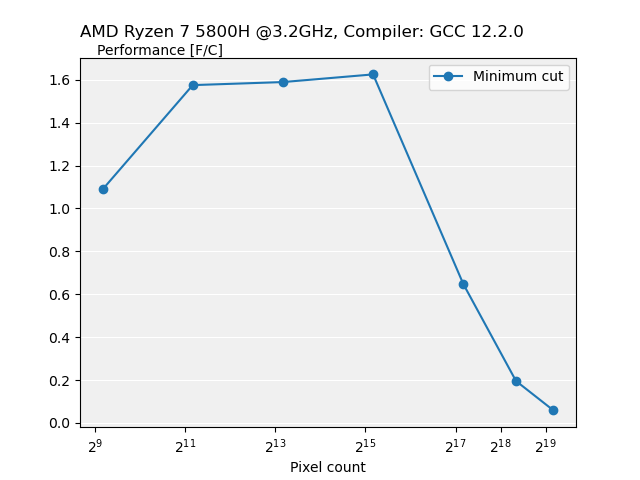
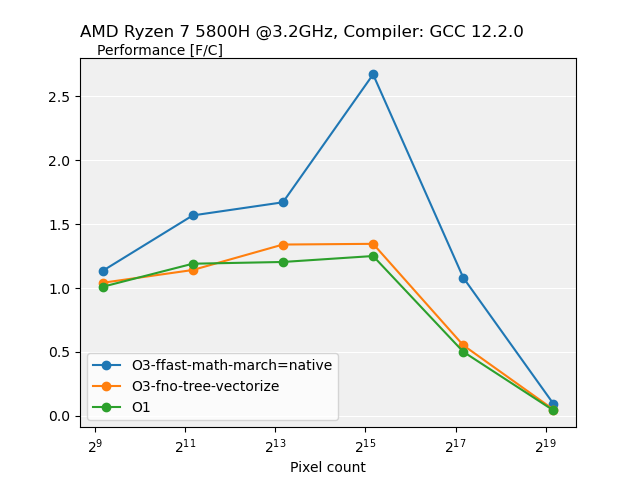
add compiler flags update plots for different compiler flags

diff --git a/src/benchmarking/performance_plot.py b/src/benchmarking/performance_plot.py
@@ -16,18 +16,20 @@ def performance_plot():
     plt.grid(axis = 'y', color = 'white')
     plt.title(cpu + ', ' + compiler, loc='left', pad=15)
 
-    data = []
-    file = open("./gallery/results.txt", "r")
-    for line in file:
-        x_value = int(line.split('n=')[1].split(',')[0])
-        y_value = float(line.split('performance=')[1].split(',')[0])
-        data.append((x_value, y_value))
+    for filename in ["timing_results_-O3-ffast-math-march=native.txt", "timing_results_-O3-fno-tree-vectorize.txt", "timing_results_-O1.txt"]:
+        data = []
+        file = open("./gallery/" + filename, "r")
+        for line in file:
+            x_value = int(line.split('n=')[1].split(',')[0])
+            y_value = float(line.split('performance=')[1].split(',')[0])
+            data.append((x_value, y_value))
 
-    data.sort(key=lambda x:x[0])
+        data.sort(key=lambda x:x[0])
 
-    plt.xscale('log', base=2)
-    plt.xticks([2 ** np.floor((np.log2(i[0]))) for i in data])
-    plt.plot(*zip(*data), '-o', label='Minimum cut')
+        plt.xscale('log', base=2)
+        plt.xticks([2 ** np.floor((np.log2(i[0]))) for i in data])
+        label = filename.split('_-')[1].split('.txt')[0]
+        plt.plot(*zip(*data), '-o', label=label)
     plt.legend()
     plt.savefig("./gallery/performance_plot.png")
 
@@ -39,20 +41,21 @@ def runtime_plot():
     plt.grid(axis = 'y', color = 'white')
     plt.title(cpu + ', ' + compiler, loc='left', pad=15)
 
-    data = []
-    file = open("./gallery/results.txt", "r")
-    for line in file:
-        x_value = int(line.split('n=')[1].split(',')[0])
-        y_value = float(line.split('cycles=')[1])
-        data.append((x_value, y_value))
+    for filename in ["timing_results_-O3-ffast-math-march=native.txt", "timing_results_-O3-fno-tree-vectorize.txt", "timing_results_-O1.txt"]:
+        data = []
+        file = open("./gallery/" + filename, "r")
+        for line in file:
+            x_value = int(line.split('n=')[1].split(',')[0])
+            y_value = float(line.split('cycles=')[1])
+            data.append((x_value, y_value))
 
-    data.sort(key=lambda x:x[0])
+        data.sort(key=lambda x:x[0])
 
-    plt.xscale('log', base=2)
-    plt.xticks([2 ** np.floor((np.log2(i[0]))) for i in data])
-    ax.yaxis.set_major_formatter(FormatStrFormatter('%g'))
-
-    plt.plot(*zip(*data), 'r-o', label='Minimum cut')
+        plt.xscale('log', base=2)
+        plt.xticks([2 ** np.floor((np.log2(i[0]))) for i in data])
+        ax.yaxis.set_major_formatter(FormatStrFormatter('%g'))
+        label = filename.split('_-')[1].split('.txt')[0]
+        plt.plot(*zip(*data), '-o', label=label)
     plt.legend()
     plt.savefig("./gallery/runtime_plot.png")
 

diff --git a/src/benchmarking/timing.cpp b/src/benchmarking/timing.cpp
@@ -1,6 +1,7 @@
 #include "timing.h"
 
 #include <dirent.h>
+#include <algorithm>
 
 #include "PngReader.h"
 #include "tsc_x86.h"
@@ -8,7 +9,7 @@
 //TODO: should we modify cycles required? 1e8 is value from homeworks
 #define CYCLES_REQUIRED 1e8
 #define RDTSC_LATENCY 26
-#define REP 3
+#define REP 2
 
 void timing::run_timing() {
     std::string directory = "./gallery";
@@ -19,7 +20,11 @@ void timing::run_timing() {
     }
 
     FILE* results_txt = NULL;
-    std::string results_path = directory + '/' + "timing_results.txt";
+    std::string filename = "timing_results_default_flags.txt";
+#ifdef _CompileFlags // get variable _CompileFlags from CmakeLists.txt
+    filename = std::string("timing_results_") + _CompileFlags + ".txt";
+#endif
+    std::string results_path = directory + '/' + filename;
     results_txt = fopen(results_path.c_str(), "w");
 
     for (int i = 0; i < files.size(); i++) {
